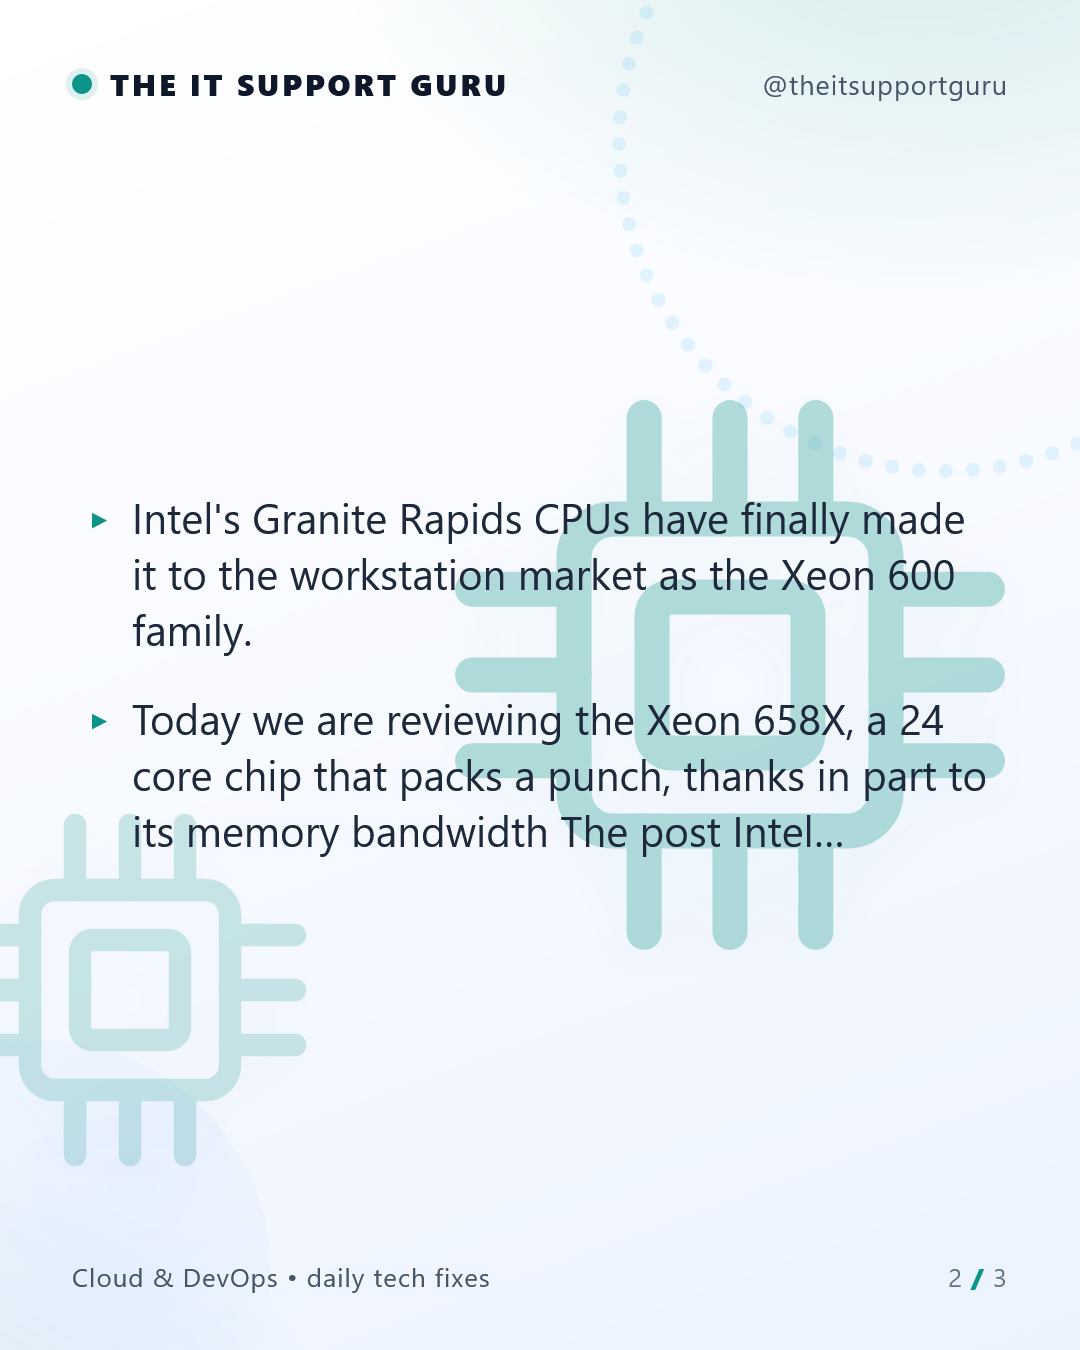
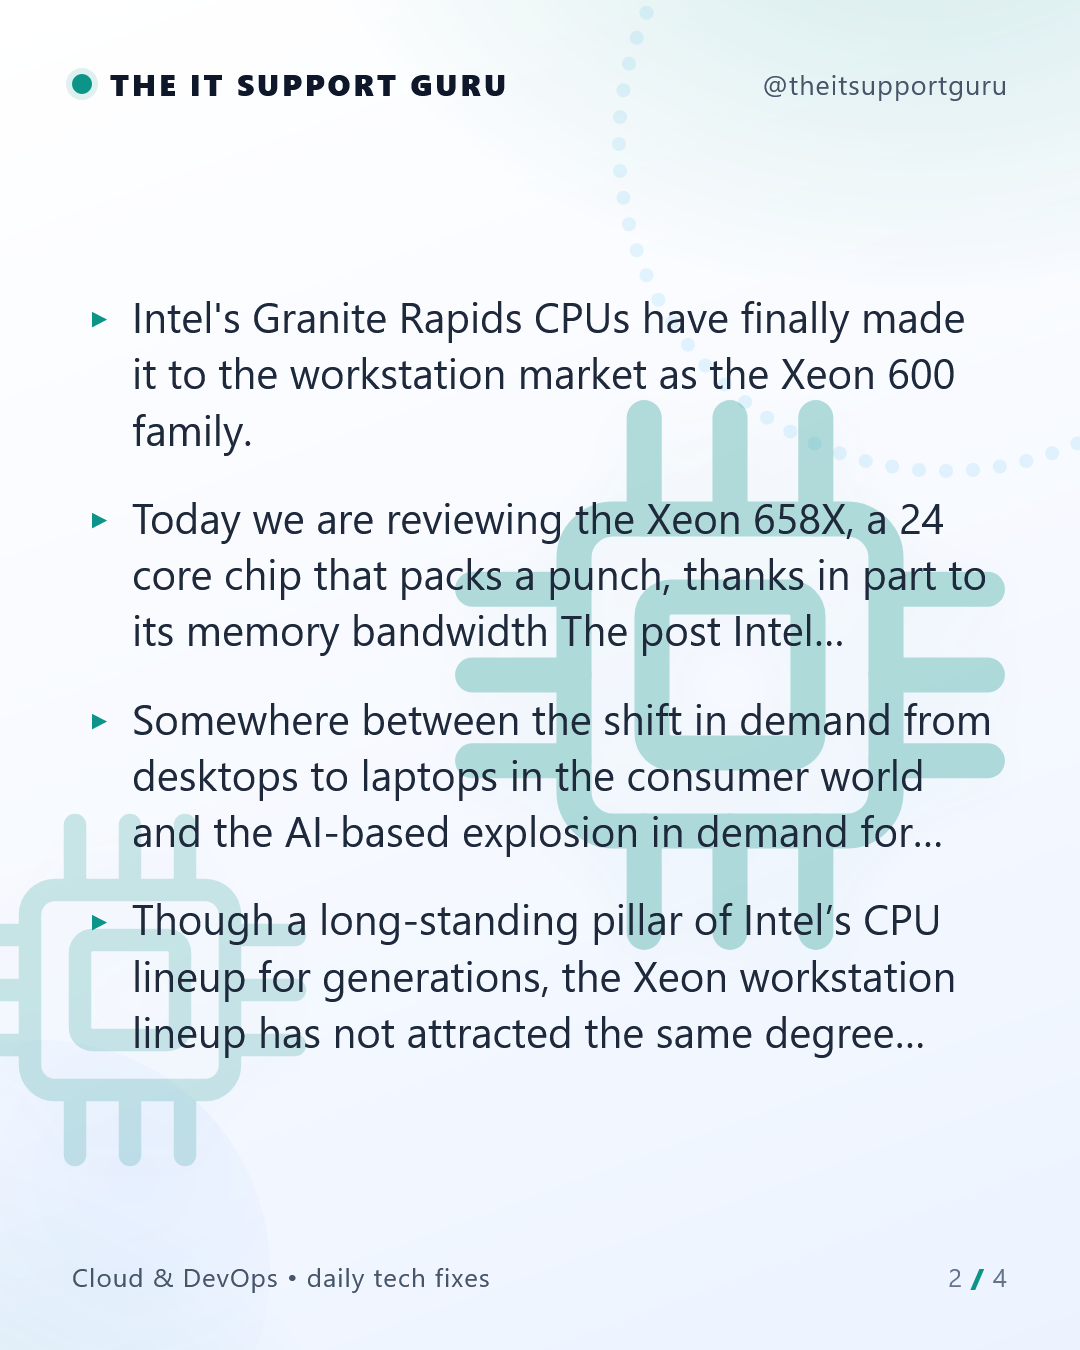
unbiased: keep retailer mentions, block only gratuitous promo copy; deals=free apps only

diff --git a/src/unbiased.js b/src/unbiased.js
@@ -1,52 +1,23 @@
-// Retail-store & promo scrubber.
+// Retail & promo scrubber.
 //
-// Stance: 100% unbiased — posts must never read as free advertising for any
-// retail store, web store, or promotional campaign. Text pulled from a source
-// article (RSS snippets, deepened paragraphs) is filtered sentence-by-sentence
-// so no bricks-and-mortar store, online retailer, or sale-boilerplate survives
-// into slides or captions.
+// Stance: 100% unbiased — a post must never read as a paid ad or gratuitous
+// advertising for any store or campaign. Mentions of retailers/stores in
+// factual, news context are fine (e.g. "available at Best Buy"), but *promo
+// copy* — sale-hype, price-off, rewards, buy-now invitations — is stripped
+// sentence-by-sentence wherever it enters from source articles.
 //
-// Note: coverage of the companies *behind* the tech (Apple, Samsung, Google,
-// Intel…) is news, not an ad — the device makers are the subject of the story,
-// not a vendor we are promoting. The scrub targets *retailers / stores* and
-// *promo/deal copy* ("X's sale is now live", "Y% off", "rewards points").
-
-const RETAIL_STORES = [
-  /\bbest buy\b/i,
-  /\bwalmart\b/i,
-  /\btarget(?: stores?)?\b/i,
-  /\bcostco\b/i,
-  /\bnewegg\b/i,
-  /\bmicro ?center\b/i,
-  /\bb&h(?: photo)?\b/i,
-  /\bamazon(?:\.com|\.co\.uk)?\b/i,
-  /\bebay\b/i,
-  /\baliexpress\b/i,
-  /\btemu\b/i,
-  /\bshein\b/i,
-  /\betisy\b/i,
-  /\bshopify\b/i,
-  /\bmacys\b/i,
-  /\bkohls?\b/i,
-  /\bnordstrom\b/i,
-  /\bhome ?depot\b/i,
-  /\blower?s\b/i,
-  /\bcurrys\b/i,
-  /\bargos\b/i,
-  /\bcarphone\b/i,
-  /\bharvey ?norman\b/i,
-  /\bjbhifi\b/i,
-  /\bthe ?good ?guys\b/i,
-  /\boffice ?works\b/i,
-  /\bstationery ?papers?\b/i
-];
+// Coverage of the companies *behind* the tech (Apple, Samsung, Google, Intel…)
+// is news, not an ad — the device makers are the subject of the story, not a
+// vendor we are promoting.
 
 const PROMO_PHRASES = [
   /\bsale is (?:now )?live\b/i,
-  /\b(?:massive|huge|big|epic|giant|mega)\s+\w* ?sale\b/i,
   /\bsale now (?:live|on)\b/i,
+  /\b(?:anniversary|birthday|flash|clearance|going|closing|boxing|season)\s+sale\b/i,
+  /\b\w+\s+(?:massive|huge|giant|epic|mega|big|major|great)\s+sale\b/i,
+  /\b(?:massive|huge|giant|epic|mega|big|major|great)\s+(?:\w+\s+)?sale\b/i,
   /\brival black friday\b/i,
-  /\bblack friday (?:sale|deals?|deals)\b/i,
+  /\bblack friday (?:sale|deals?)\b/i,
   /\bprime day\b/i,
   /\bcyber monday\b/i,
   /\b\d+\s*% off\b/i,
@@ -58,32 +29,24 @@ const PROMO_PHRASES = [
   /\bclearance\b/i,
   /\bprice drop\b/i,
   /\blowest price\b/i,
-  /\bdeals? on (?:tv|phones?|laptops?|electronics)\b/i,
-  /\bshop (?:now|today)\b/i,
+  /\bdeals?\s+on\b/i,
+  /\bshop (?:now|today|the sale|the deal)\b/i,
   /\bbuy (?:now|today|one get one)\b/i,
-  /\b(?:free|fast)\s+shipping\b/i,
+  /\b(?:free|fast|next[ -]?day)\s+shipping\b/i,
   /\bbogo\b/i,
   /\bflash ?sale\b/i,
-  /\blead(?:ing)?\s+(?:the\s+)?(?:weekly|monday|daily)\s+deals\b/i
+  /\blead(?:ing)?\s+(?:the\s+)?(?:weekly|monday|daily)\s+deals\b/i,
+  /\bup to \$\d+\s+off\b/i,
+  /\bfrom \$\d+(?:\.\d{2})?\b/i,
+  /\bsave (?:up to )?\d+\s*%?\b/i,
+  /\breduced to \$\d+\b/i,
+  /\bsign up(?: now)? for\b/i
 ];
 
-export function scrubText(input) {
-  const text = String(input || "");
-  return text
-    .split(/(?<=[.!?])\s+/)
-    .map((s) => s.trim())
-    .filter((s) => !s.length || s.length < 28)
-    .map(() => "")
-    .join(" ");
-}
-
-// Returns true when a sentence is retail-store or promo copy that must not
+// Returns true when a sentence is gratuitous ad/promo copy that must not
 // appear on a post. Works on individual sentences AND whole passages.
 export function isRetailPromo(text) {
-  const t = String(text || "");
-  if (RETAIL_STORES.some((re) => re.test(t))) return true;
-  if (PROMO_PHRASES.some((re) => re.test(t))) return true;
-  return false;
+  return PROMO_PHRASES.some((re) => re.test(String(text || "")));
 }
 
 // Filter a passage down to unbiased sentences. Long passages are split on
@@ -101,4 +64,7 @@ export function isClean(text) {
   return !isRetailPromo(text);
 }
 
-export default { scrubText, isRetailPromo, filterUnbiased, isClean };
+// Kept for callers that still want the old all-store block behaviour.
+export const isRetailPromoStrict = (text) => isRetailPromo(text);
+
+export default { isRetailPromo, filterUnbiased, isClean, isRetailPromoStrict };

diff --git a/src/ig-generator.js b/src/ig-generator.js
@@ -247,6 +247,17 @@ function contentDepth(t) {
     articleCacheParas(t).reduce((a, p) => a + String(p).length, 0)
   );
 }
+// Deals/freebies stories: only feature *free* apps or genuinely free offers.
+// Paid-app discounts, hardware sales and store sale round-ups are promotional
+// by nature and never become a post (we don't advertise retailers or stores).
+const FREE_DEAL_RE = /(free\b|freebie|free app|free apps|free game|free games|free download|free to play|app of the (?:day|week)|app sale|app deals|free with|100% free|at no cost)/i;
+const PAID_DEAL_RE = /(discount|\b% off\b|deal(?:s)?\b|sale\b|bogo|clearance|coupon|save\s|\$\d|price drop|reduced)/i;
+function isFreeDeal(t) {
+  return FREE_DEAL_RE.test(String(t.title || "") + " " + String(t.snippet || ""));
+}
+function isPaidDeal(t) {
+  return PAID_DEAL_RE.test(String(t.title || "") + " " + String(t.snippet || ""));
+}
 function pickDeepest(coll) {
   // Prefer real, linkable articles with the deepest snippet. Linkless digest
   // items (long text, no URL) are poor leads and only used as a last resort.
@@ -255,6 +266,13 @@ function pickDeepest(coll) {
   if (!pool.length) pool = linked;
   if (!pool.length) pool = coll.filter((t) => !looksLikeNewsletter(t));
   if (!pool.length) pool = coll;
+  // Unbiased stance: paid-deal / store-sale round-ups never become posts.
+  const free = pool.filter(isFreeDeal);
+  if (free.length) pool = free;
+  else {
+    const nonPaid = pool.filter((t) => !isPaidDeal(t));
+    if (nonPaid.length) pool = nonPaid;
+  }
   // Freshness first: stale "news" reads as a bot. If at least two recent items
   // exist, only pick among them; otherwise fall back to depth alone.
   const fresh = pool.filter((t) => {
